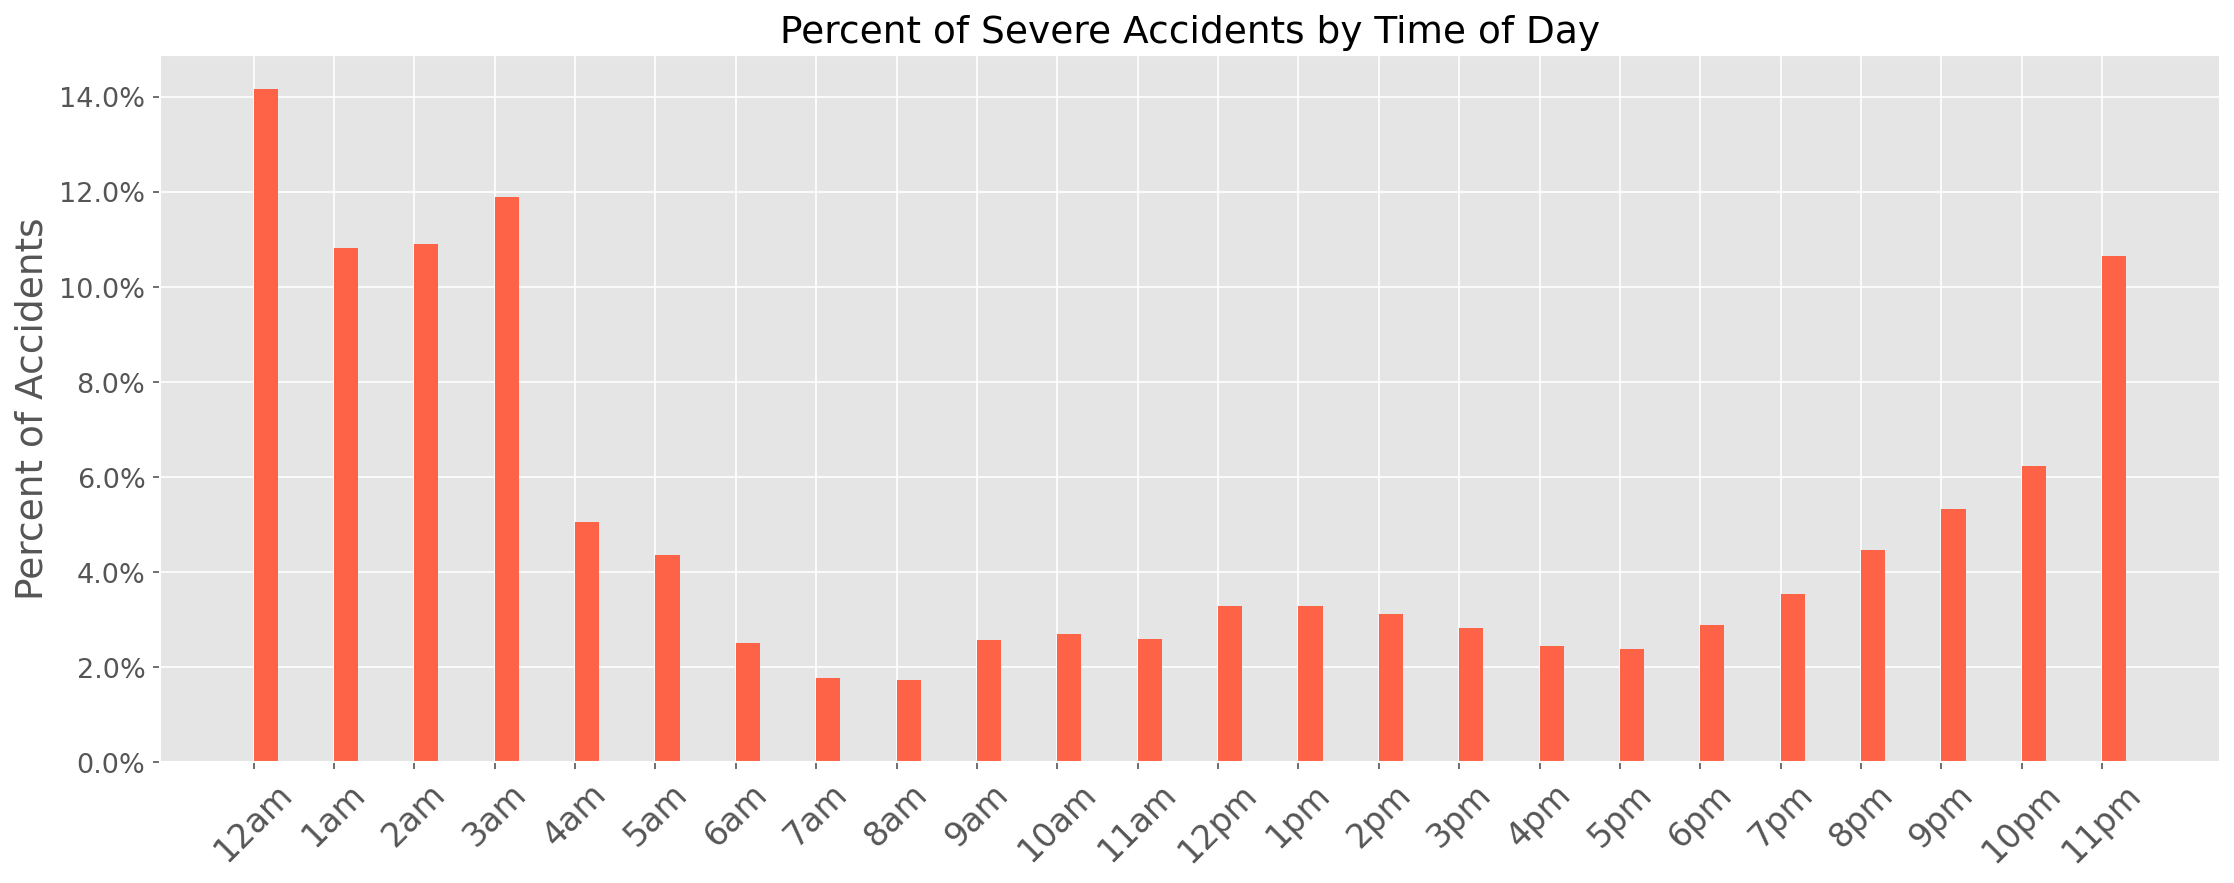
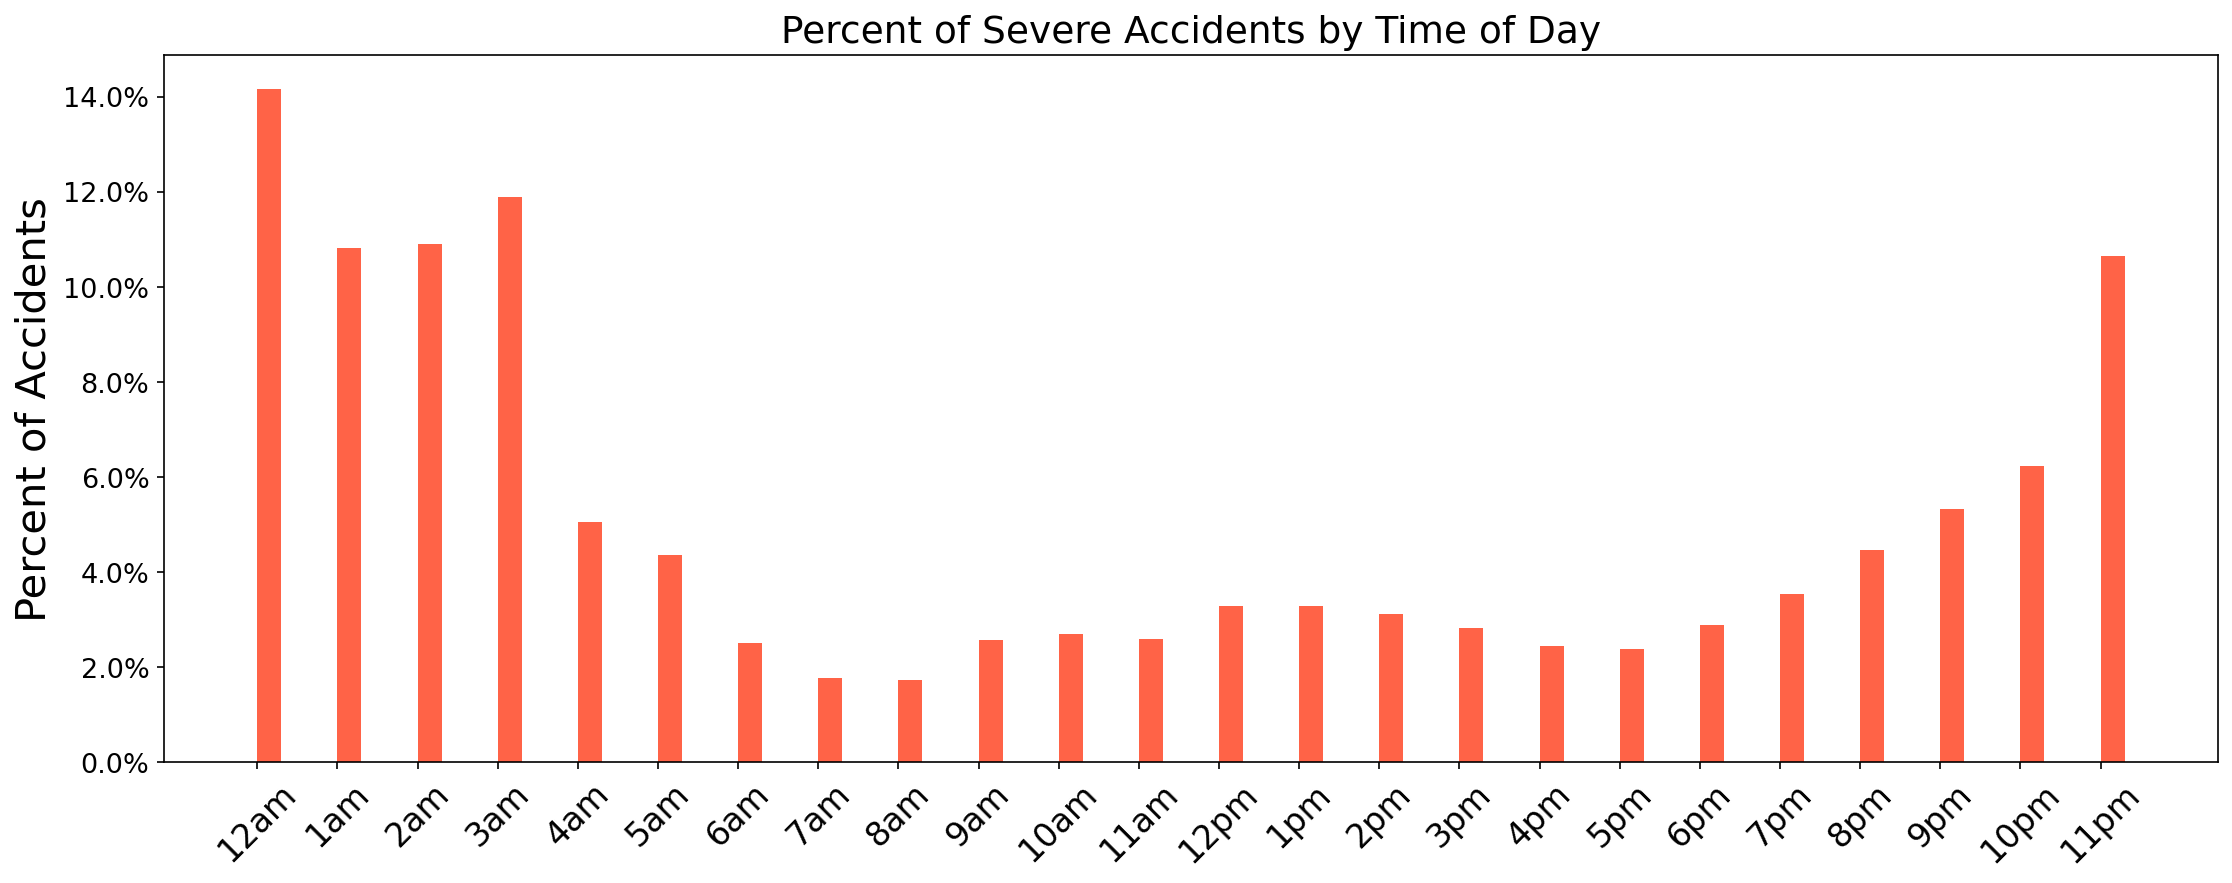
updated readme

diff --git a/src/eda.py b/src/eda.py
@@ -34,6 +34,7 @@ def time_total(df, save_loc):
         df - dataframe
         save_as - name to save image under
     """
+    plt.style.use('ggplot')
     tm = df.groupby(['Hour'])['ID'].count().reset_index()
     hours=['12am', '1am', '2am', '3am', '4am','5am', '6am', '7am', '8am', '9am', '10am', '11am', '12pm',
             '1pm', '2pm', '3pm', '4pm', '5pm', '6pm', '7pm', '8pm', '9pm', '10pm', '11pm',]
@@ -46,7 +47,7 @@ def time_total(df, save_loc):
     plt.xticks(x1, fontsize=13)
     ax.set_xticklabels(labels=hours, fontsize=16, rotation=45,)
     ax.set_ylabel("Number of Accidents", fontsize=18)
-    ax.set_title("Total Accidents by Time of Day", fontsize=18)
+    ax.set_title("Total Accidents by Time of Day", fontsize=20)
     fig.tight_layout()
     plt.savefig(save_loc,dpi=150, bbox_inches = 'tight')
     plt.show()
@@ -66,6 +67,7 @@ def time_prop(df, save_loc):
         df - dataframe
         save_as - name to save image under
     """
+    plt.style.use('ggplot')
     sev_0 = df[(df['Severity'] == 0)]
     sev_1 = df[(df['Severity'] == 1)]
     tm_0 = sev_0.groupby(['Hour'])['ID'].count().reset_index()
@@ -84,7 +86,7 @@ def time_prop(df, save_loc):
     ax.set_xticklabels(labels=hours, fontsize=16, rotation=45,)
     ax.yaxis.set_major_formatter(mtick.PercentFormatter(1))
     ax.set_ylabel("Percent of Accidents", fontsize=18)
-    ax.set_title("Percent of Severe Accidents by Time of Day", fontsize=18)
+    ax.set_title("Percent of Severe Accidents by Time of Day", fontsize=20)
     fig.tight_layout()
     plt.savefig(save_loc,dpi=150, bbox_inches = 'tight')
     plt.show()
@@ -120,11 +122,11 @@ if __name__ == '__main__':
     # Read csv file into a pandas dataframe
     df_full = pd.read_csv('../data/total_cleaned_data.csv')
 
-    feature_breadown(df_full, 'Severity', 'Severity Level', '../Images/severity_breakdown.png')
-    feature_breadown(df_full, 'Region', 'Accidents by Region', '../Images/region_breakdown.png')
-    time_total(df_full, '../Images/total_accident__time.png')
+    # feature_breadown(df_full, 'Severity', 'Severity Level', '../Images/severity_breakdown.png')
+    # feature_breadown(df_full, 'Region', 'Accidents by Region', '../Images/region_breakdown.png')
+    time_total(df_full, '../Images/total_accident___time.png')
     new_df = binary_sev(df_full)
-    time_prop(new_df, '../Images/accident_time__proportion.png')
+    time_prop(new_df, '../Images/accident_time___proportion.png')
     # geographic_dist(new_df)
     # geographic_dist_prop(new_df, df_full)
 

diff --git a/README.md b/README.md
@@ -55,8 +55,8 @@ Inferential Regression Assumptions:
 3. No multicollinearity: the independent variables are not highly correlated with each other 
 
 
-![](Images/total_accident__time.png)
-![](Images/accident_time__proportion.png)
+![](Images/total_accident___time.png)
+![](Images/accident_time___proportion.png)
 
 Applied Feature Engineering to the Time column, where the hour was extracted and used to create a binary Rush Hour feature, which in the UK is generally considered to be between 07:00-10:00 and 16:00-19:00
 * Appears to show lower proportion during typical busy hours
